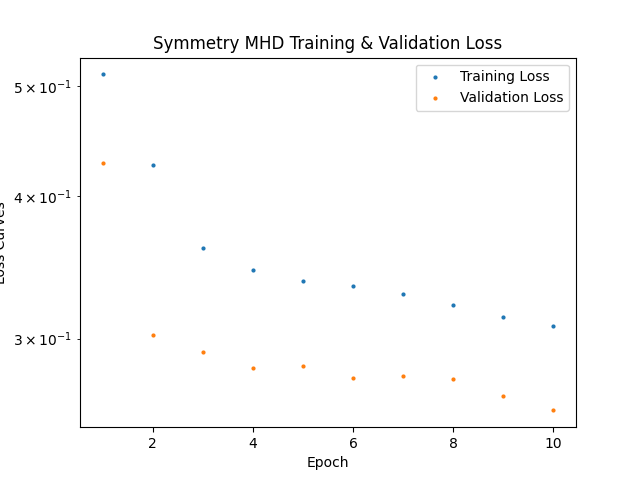
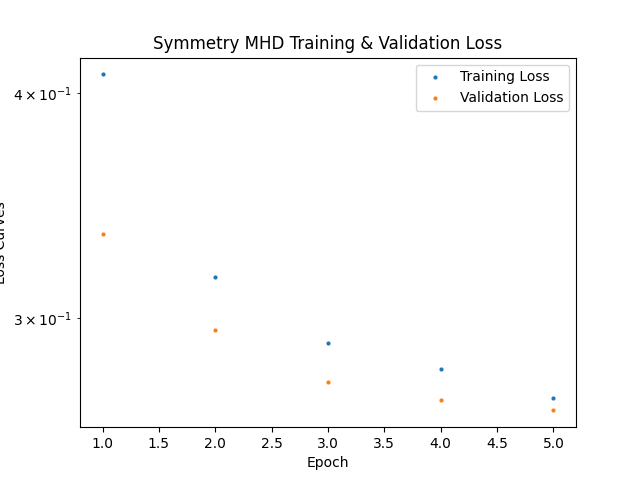
At a loss (pun intended) as to why baseline is marginally better than symmetry. Not even sure if I'm ending up with what I'm supposed to

diff --git a/PS2/P2/P2.py b/PS2/P2/P2.py
@@ -28,12 +28,12 @@ from .augment import Augmentation, b_parity, rotation_symmetry
 #   baseline NN and symmetry-enforcing NN both are given the same 
 #   qty of data
 TRAIN_ORIG_DIVISOR = 100
-TRAIN_AUG_DIVISOR = 5 * TRAIN_ORIG_DIVISOR 
+TRAIN_AUG_DIVISOR = 13 * TRAIN_ORIG_DIVISOR 
 VALID_DIVISOR = 10
 TEST_DIVISOR = 10
 
 # Batch settings:
-TRAIN_BATCH_SIZE = 4
+TRAIN_BATCH_SIZE = 2
 VALID_BATCH_SIZE = 2
 TEST_BATCH_SIZE = 2
 
@@ -64,7 +64,7 @@ USE_NORMALIZATION = False
 # Optimizer settings:
 LEARNING_RATE = 1e-3
 LOSS_FUNC = nn.MSELoss()
-EPOCHS = 15
+EPOCHS = 5
 DELTA_THRESHOLD = 1e-2
 
 # DataLoader settings:
@@ -168,13 +168,37 @@ def dataset_generator():
     # Data augmentation:
     train_orig = datasets["train"]
     train_mag = Augmentation(train_orig, transform=b_parity)
+    train_z90 = Augmentation(
+        train_orig,
+        transform = lambda sample: rotation_symmetry(sample, axis_rot="z", num_90_rot=1)
+    )
     train_z180 = Augmentation(
         train_orig,
         transform = lambda sample: rotation_symmetry(sample, axis_rot="z", num_90_rot=2)
     )
+    train_z270 = Augmentation(
+        train_orig,
+        transform = lambda sample: rotation_symmetry(sample, axis_rot="z", num_90_rot=3)
+    )
     train_x90 = Augmentation(
         train_orig,
         transform=lambda sample: rotation_symmetry(sample, axis_rot="x", num_90_rot=1)
+    )
+    train_x180 = Augmentation(
+        train_orig,
+        transform=lambda sample: rotation_symmetry(sample, axis_rot="x", num_90_rot=2)
+    )
+    train_x270 = Augmentation(
+        train_orig,
+        transform=lambda sample: rotation_symmetry(sample, axis_rot="x", num_90_rot=3)
+    )
+    train_y90 = Augmentation(
+        train_orig,
+        transform=lambda sample: rotation_symmetry(sample, axis_rot="y", num_90_rot=1)
+    )
+    train_y180 = Augmentation(
+        train_orig,
+        transform=lambda sample: rotation_symmetry(sample, axis_rot="y", num_90_rot=2)
     )
     train_y270 = Augmentation(
         train_orig,
@@ -185,7 +209,21 @@ def dataset_generator():
 
     #===============================
     # Combining train augmentations:
-    train_aug = ConcatDataset([train_orig, train_mag, train_z180, train_x90, train_y270])
+    train_aug = ConcatDataset([
+        train_orig, 
+        train_mag, 
+        train_mag, # B-field parity re-introduced for strength
+        train_mag, 
+        train_z90, 
+        train_z180,
+        train_z270,
+        train_x90,
+        train_x180,
+        train_x270, 
+        train_y90,
+        train_y180,
+        train_y270
+        ])
     N_train_aug = len(train_aug)
     indices = torch.randperm(N_train_aug)[:(N_train_aug // TRAIN_AUG_DIVISOR)]
     train_aug = Subset(train_aug, indices)
@@ -558,9 +596,8 @@ def baseline_MHD(
 #=========================
 if __name__ == "__main__":
     symmetry_results = symmetry_MHD(**symmetry_MHD_config)
-    print(symmetry_results)
-
     baseline_results = baseline_MHD(**baseline_MHD_config)
-    print(baseline_results)
-#==========================
+    print(f'Symmetry architecture test loss:{symmetry_results}')
+    print(f'Baseline architecture test loss:{baseline_results}')
+#===============================================================
 #===============================================================================================================================

diff --git a/PS2/README.md b/PS2/README.md
@@ -66,10 +66,20 @@ TVT_MHD (TVT.py): Train, validate, test function, same as TVT_MLP but
         tensor is equivariant under this transformation.
 
                                 Part 2
-(a) The rotational symmetry and magnetic field parity are enforced via
+(a) 
+(b) The rotational symmetry and magnetic field parity are enforced via
         augmented data, while the translational symmetry are enforced 
         by the neural network being a CNN.
+
+                                Part 3
+(a) Done.
 (b)
+(c) Both models were run with the same model, therefore translational
+        symmetry was enforced for both baseline and symmetry architectures.
+        This comparison then exposes the advantages brought by data
+        augmentation. The exact same parameters were used in the spatial-
+        temporal CNN, and the exact same amount of training, validation,
+        and test data was used for both architectures.
 
 
 
